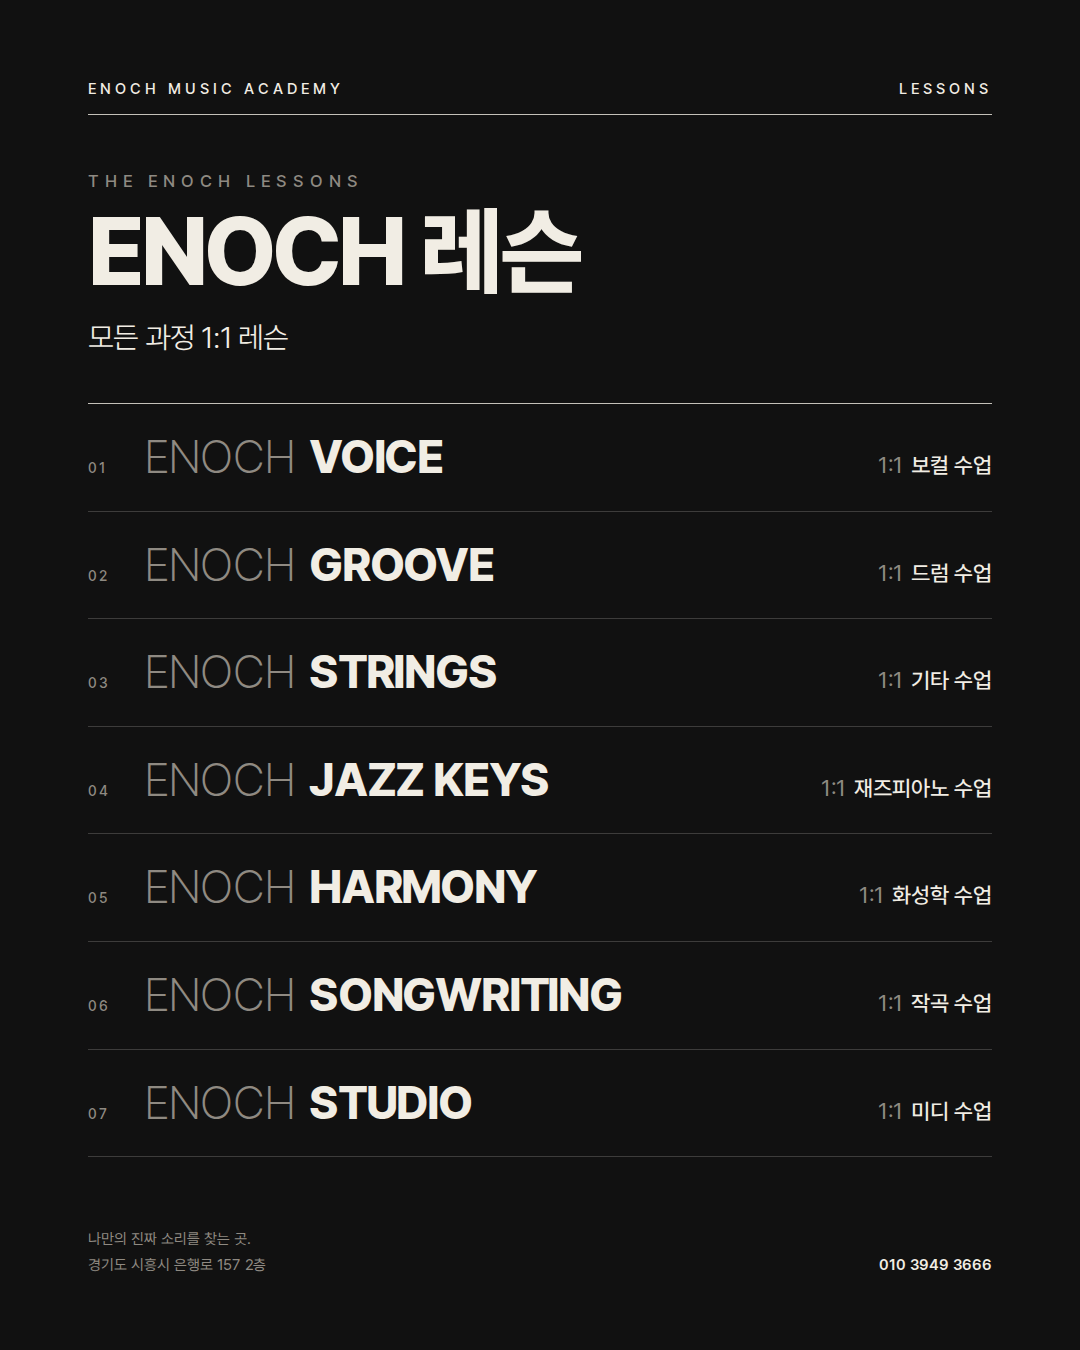
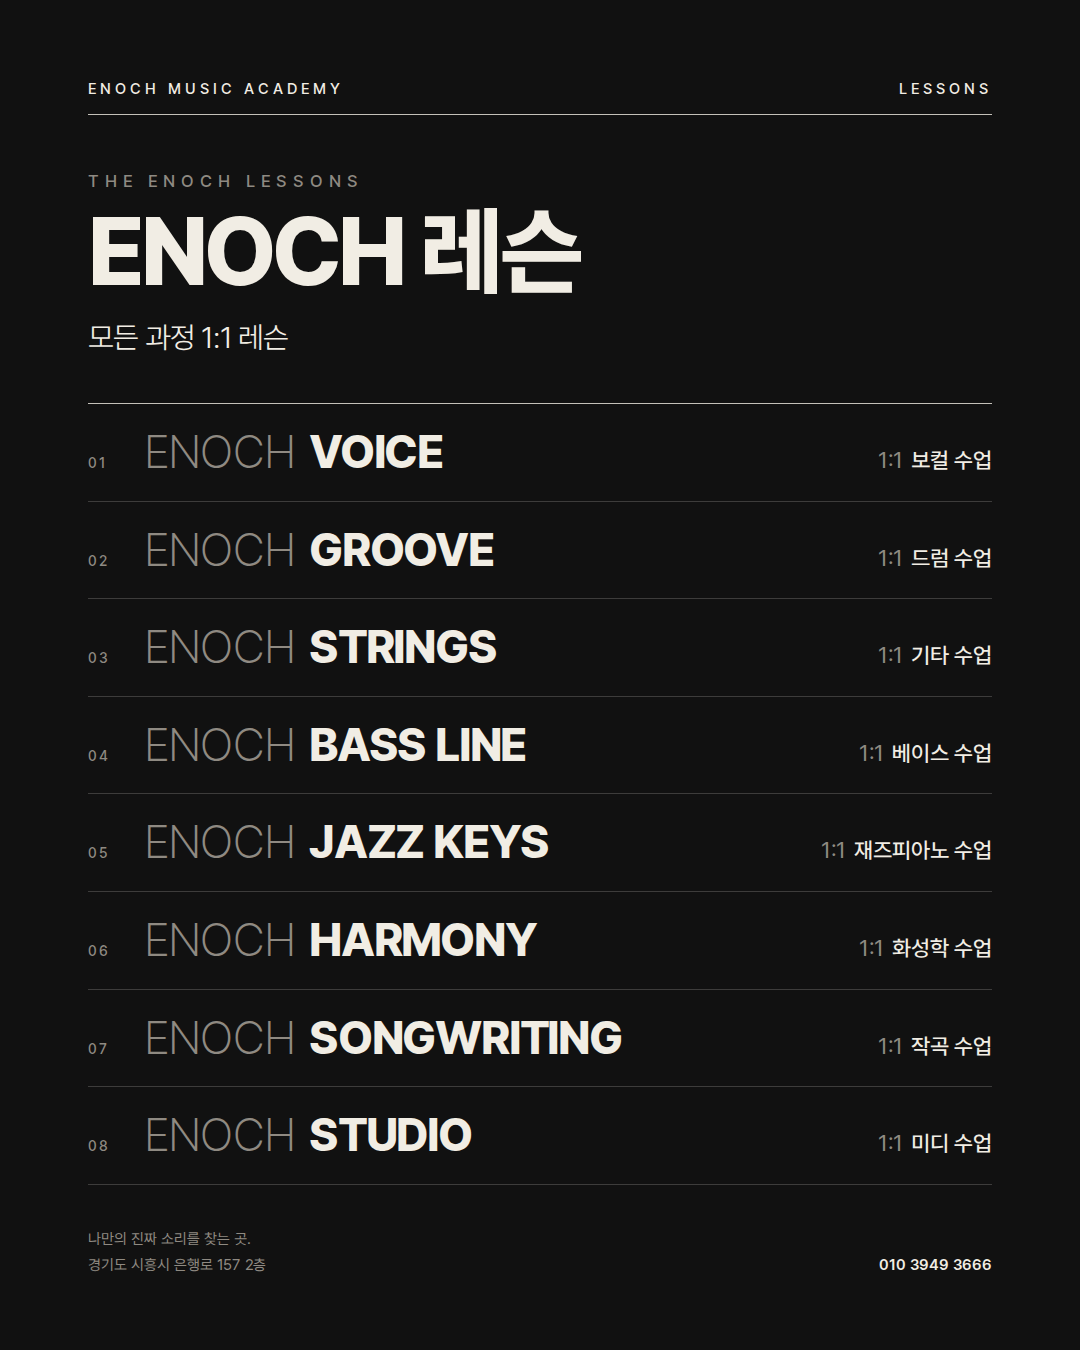
과목 정보 갱신: 재즈피아노·화성학, 라인업에 베이스 추가
Claude-Session: https://claude.ai/code/session_01CF5fpq8K2JuqQ5CrWFpBFo

diff --git a/blog/PACKAGING.md b/blog/PACKAGING.md
@@ -78,6 +78,7 @@
 | 보컬 | ENOCH VOICE |
 | 드럼 | ENOCH GROOVE |
 | 기타 | ENOCH STRINGS |
+| 베이스 | ENOCH BASS LINE |
 | 재즈피아노 | ENOCH JAZZ KEYS |
 | 화성학 | ENOCH HARMONY |
 | 작곡 | ENOCH SONGWRITING |
@@ -86,5 +87,5 @@
 - 새 이름 옆이나 아래에는 **항상** "1:1 ○○ 수업"을 같이 쓴다. 이름은 포장지의 로고이고, 고객은 과목명으로 이해한다.
 - 이미지·인스타·플레이스 대표 사진에는 새 이름을 크게 쓴다. 블로그 제목과 검색 키워드는 "시흥 ○○학원" 그대로 쓴다. 본문에서는 "드럼 수업"으로 쓰고, 새 이름은 소제목이나 이미지에 한 번만 쓴다.
 - 네이버 예약 상품명, 상담, 전화에서는 "드럼 1:1 체험 레슨"처럼 쉬운 이름을 쓴다.
-- 베이스 이름은 아직 정하지 않았다. 재즈피아노와 화성학을 따로 운영하는지는 학원 정보(GUIDE 1번)에 아직 반영하지 않았다 (확인 필요).
+- 피아노 수업은 재즈피아노 수업이고, 화성학 수업도 운영한다 (2026-10-10 원장님 확인, GUIDE 1번 반영).
 - 라인업 이미지: `blog/assets/academy/lineup.png` (`node blog/scripts/render-lineup.mjs`)

diff --git a/blog/GUIDE.md b/blog/GUIDE.md
@@ -66,7 +66,7 @@
 - 위치: 대야역 도보 10–15분, 성원아파트 정류장 앞 (1층: 역전우동 · 오피스문구점)
 - 전화: 010 3949 3666
 - 운영: 평일 13:00–22:00 / 토 10:00–18:00 / 일요일 휴무
-- 과목: 보컬 · 기타 · 드럼 · 베이스 · 피아노 · 미디 · 작곡
+- 과목: 보컬 · 기타 · 드럼 · 베이스 · 재즈피아노 · 미디 · 작곡 · 화성학 (2026-10-10 원장님 확인: 피아노는 재즈피아노 수업, 화성학 수업 운영)
 - 수업: 모든 과정 1:1 레슨 / 입시 · 취미 · 성인 · 전문
 - 시그니처 문구: 나만의 진짜 소리를 찾는 곳.
 - 체험 레슨 (2026-10-07 원장님 확인)
@@ -208,7 +208,7 @@
 위치  대야역 도보 10–15분, 성원아파트 정류장 앞
 전화  010 3949 3666
 운영  평일 13:00–22:00 / 토 10:00–18:00 / 일요일 휴무
-과목  보컬 · 기타 · 드럼 · 베이스 · 피아노 · 미디 · 작곡 (1:1 레슨)
+과목  보컬 · 기타 · 드럼 · 베이스 · 재즈피아노 · 미디 · 작곡 · 화성학 (1:1 레슨)
 체험  1:1 체험 레슨 40분 · 사전 예약 10,000원 (현장 결제 25,000원)
 예약  네이버 예약 또는 전화
 ```

diff --git a/CLAUDE.md b/CLAUDE.md
@@ -14,7 +14,7 @@
 - 전화: 010 3949 3666
 - 운영시간: 평일 13:00–22:00 / 토 10:00–18:00 / 일요일 휴무
 - 오시는 길: 대야역 도보 10–15분, 성원아파트 정류장 앞 (1층: 역전우동 · 오피스문구점)
-- 과목: Vocal · Guitar · Drum · Bass · Piano · MIDI · 작곡, 1:1 레슨
+- 과목: Vocal · Guitar · Drum · Bass · Piano · MIDI · 작곡 · 화성학, 1:1 레슨 (피아노는 재즈피아노 수업, 2026-10-10 원장님 확인)
 - 과정: 입시 · 취미 · 성인 · 전문 (모든 과정 1:1 레슨)
 - 규모: 100평 이상, 강사 20명 이상, 취미/입시 캠퍼스 분리 예정
 
